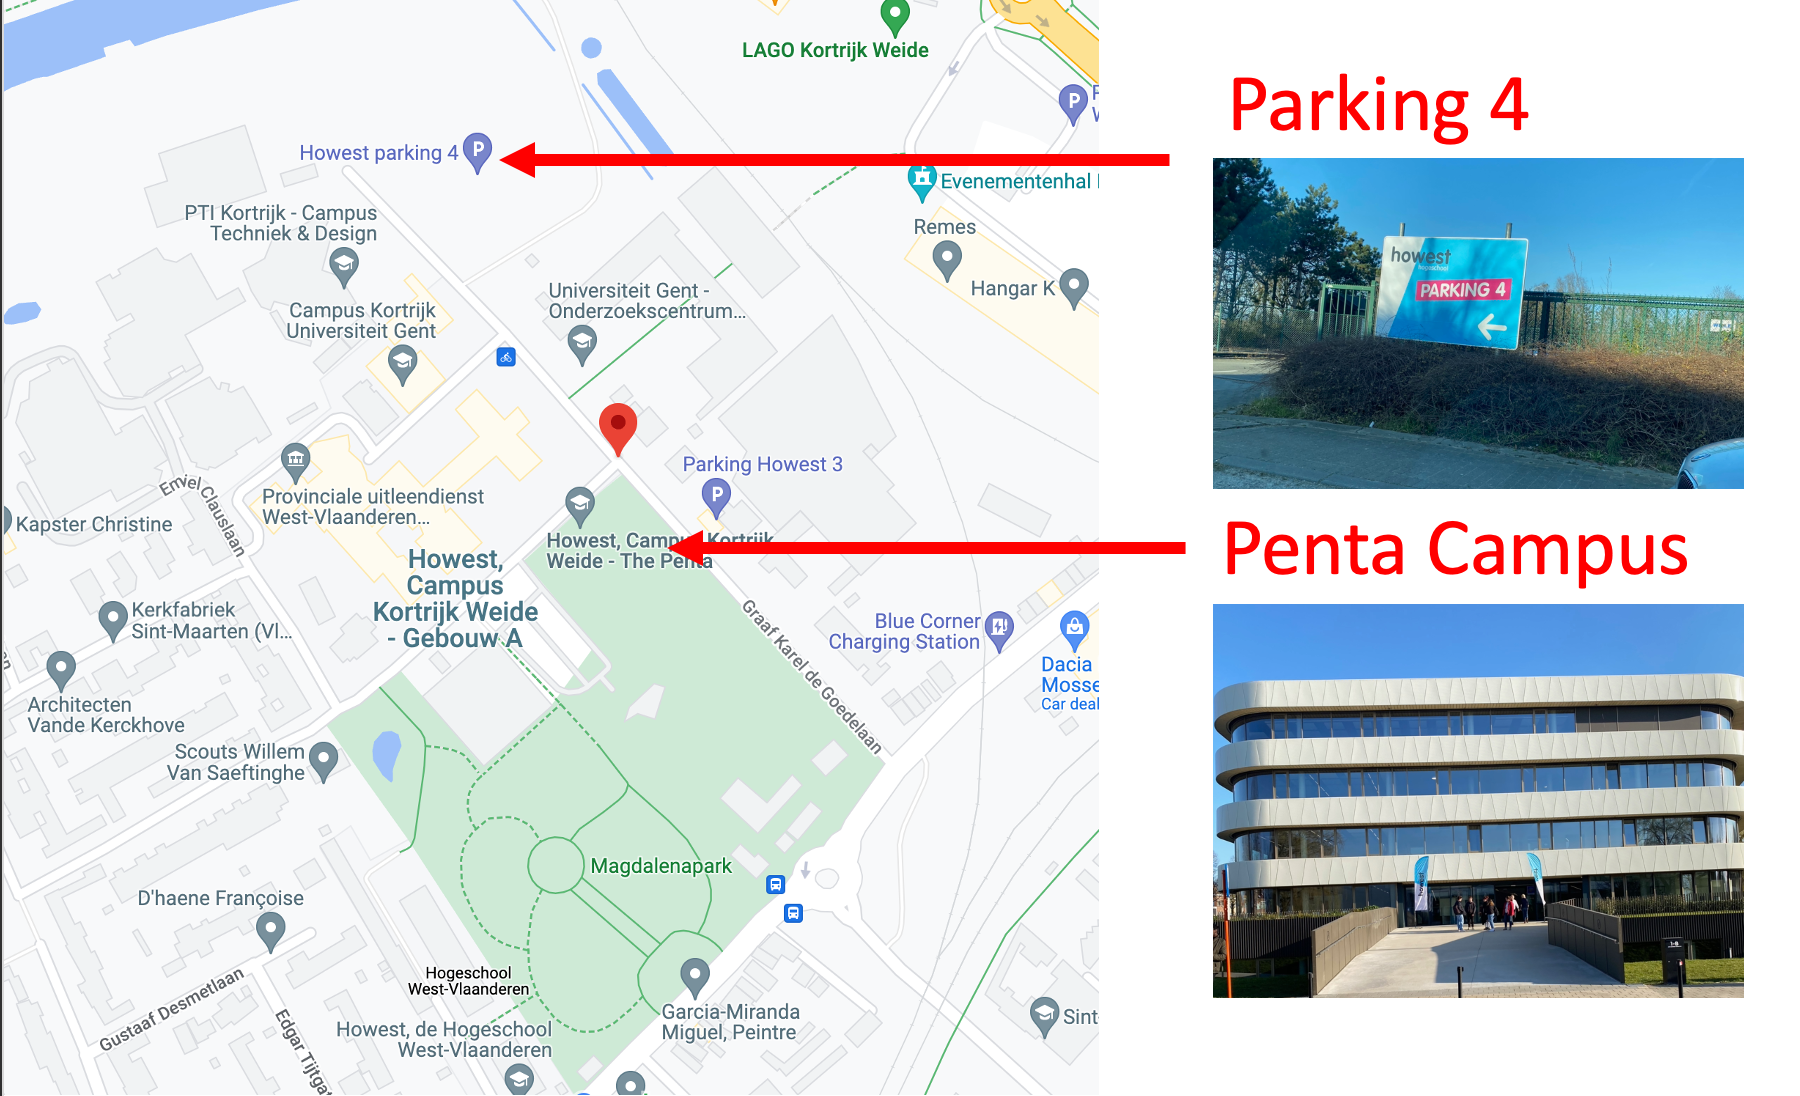
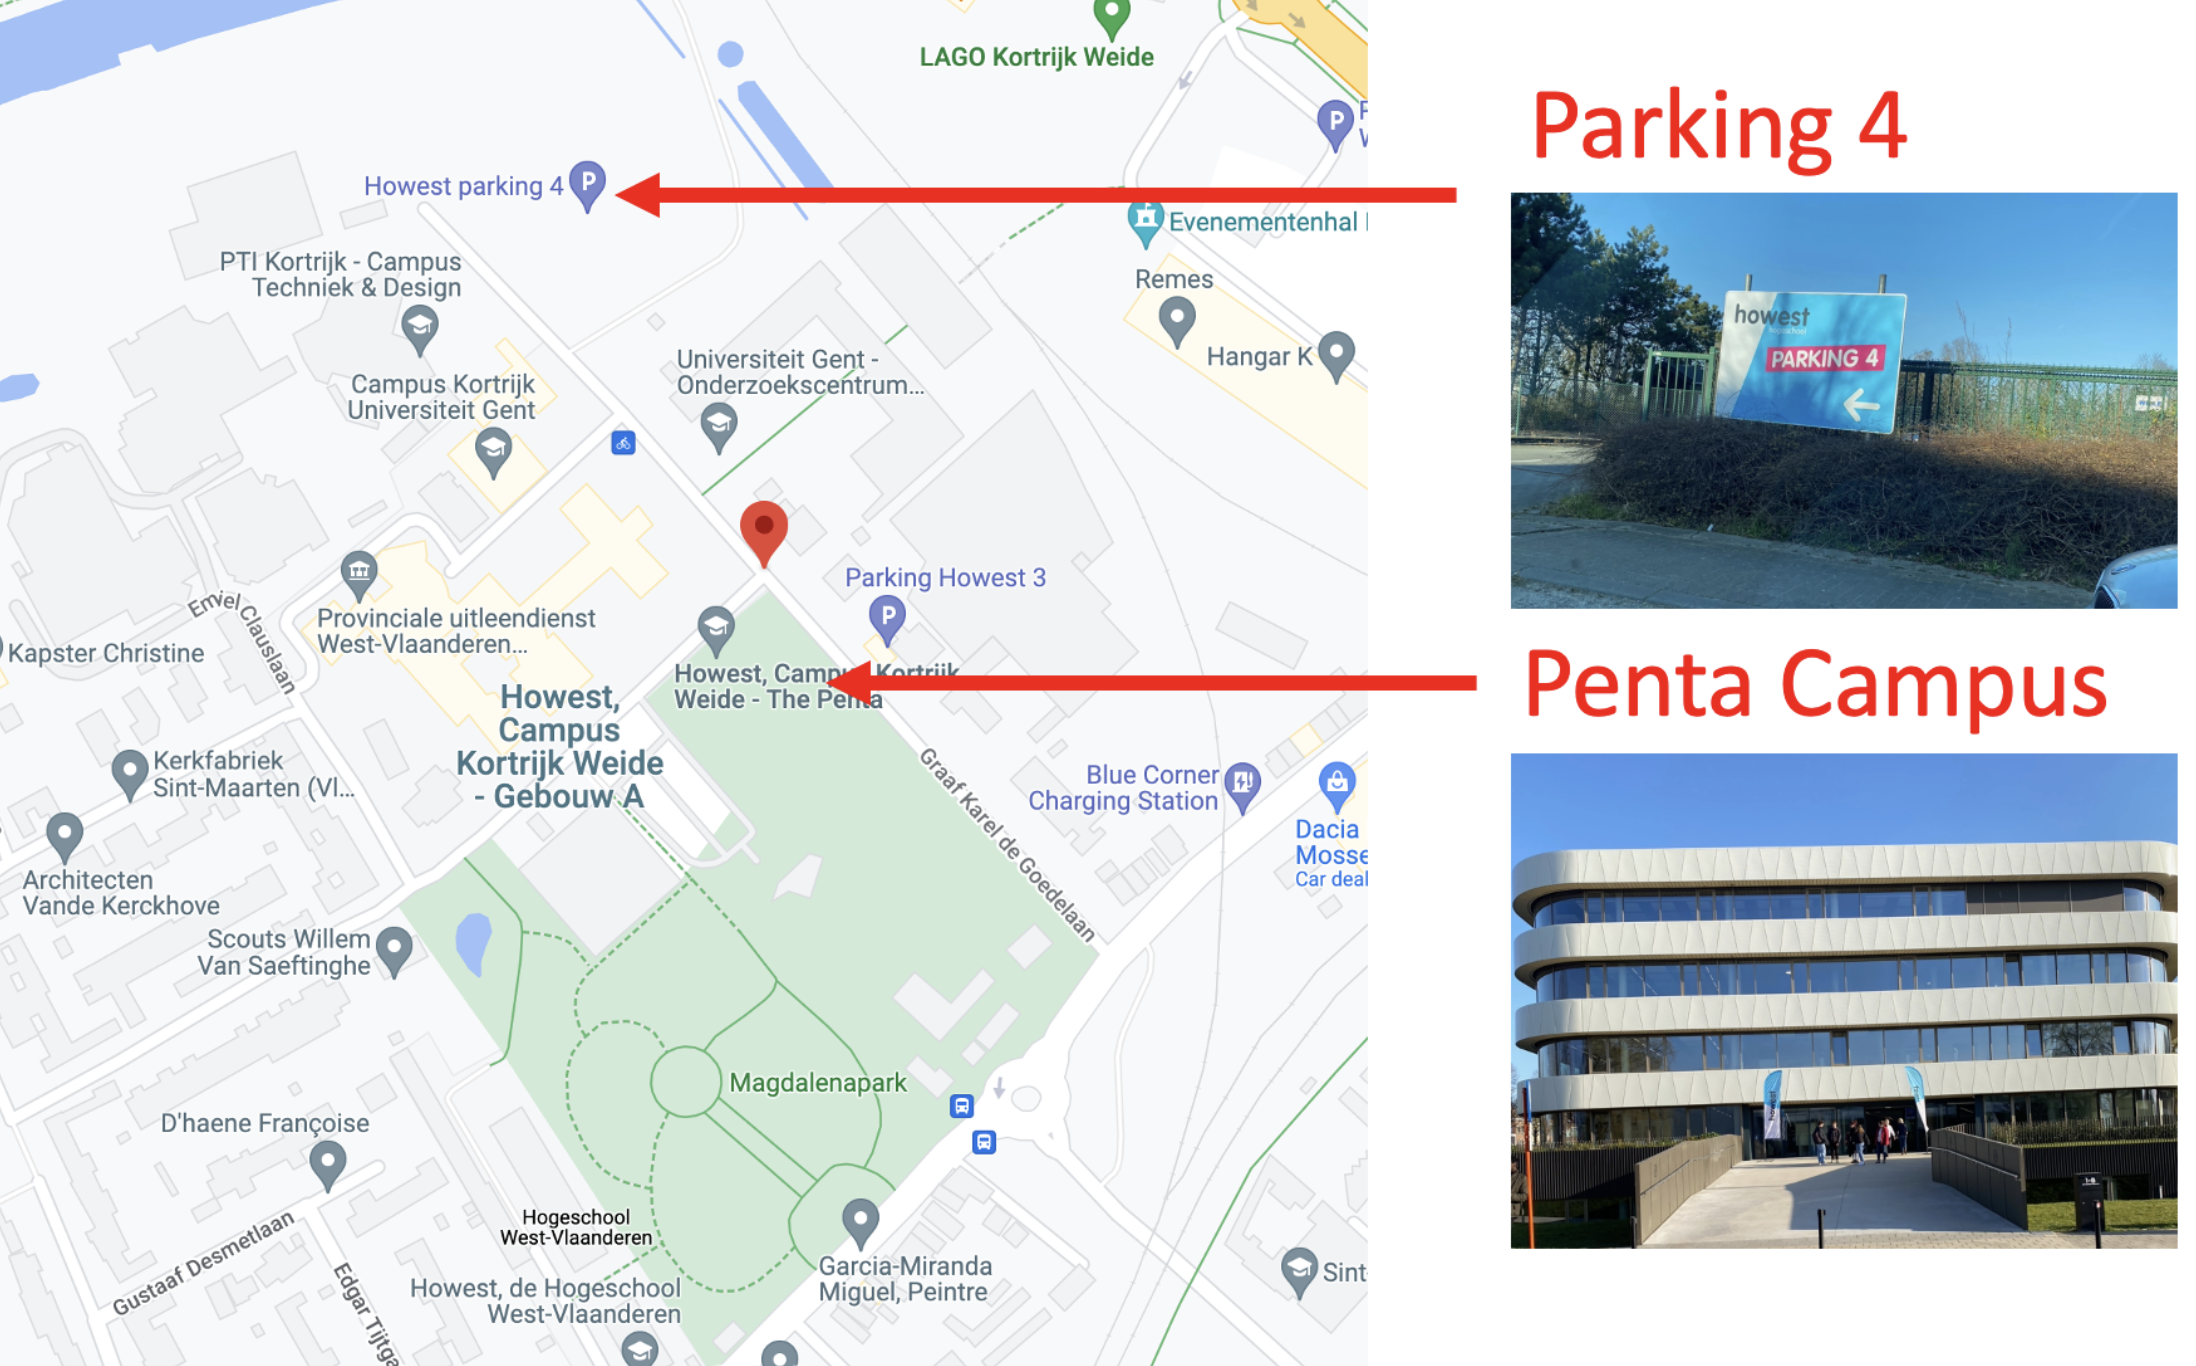
visual update location

diff --git a/location/index.md b/location/index.md
@@ -16,7 +16,7 @@ You can reach us...
 Kortrijk station is less than 1.5 km from the campus. You can walk to the campus.<br />
 <li>By car<br />
 You can park at Howest car park 4, at the end in the Graaf Karel de Goedelaan:<br />
-<img src="/assets/images/parking_map.png" alt="Parking map"/>
+<img src="/assets/images/parking_map.png" alt="Parking map" width=600/>
 <br />
 <h3>Nearby hotels:<h3>
 - <a href="https://www.parkhotel.be/index-nl.aspx?r=true">Park hotel</a><br />
